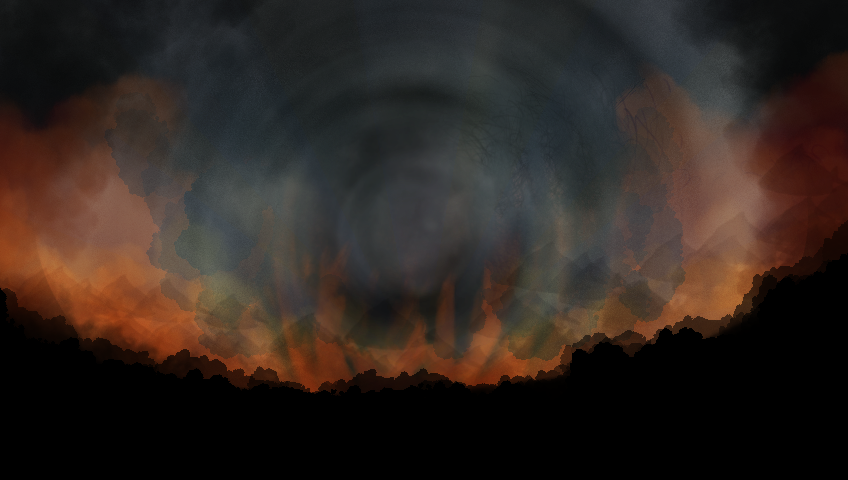
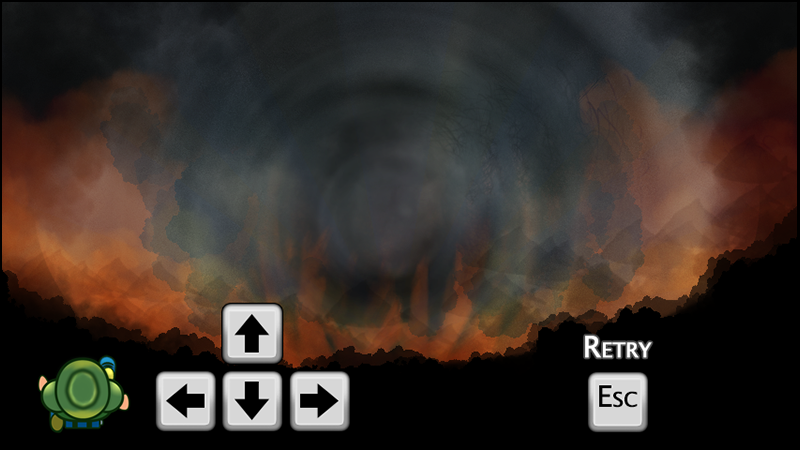
title screen refinement

diff --git a/LITDark/GameLoop.js b/LITDark/GameLoop.js
@@ -232,8 +232,8 @@ function GameLoop(){
 			// self.promptText2.on('mousedown', startLevel2);	
 			// self.promptText3.on('mousedown', startLevel3);	
 
-			self.promptText.position.set(AH_GLOBALS.SCREEN_W/2, AH_GLOBALS.SCREEN_H/2 - 50);
-			self.promptText1.position.set(AH_GLOBALS.SCREEN_W/2, AH_GLOBALS.SCREEN_H/2 + 50);
+			self.promptText.position.set(AH_GLOBALS.SCREEN_W/2, AH_GLOBALS.SCREEN_H/2 - 160);
+			self.promptText1.position.set(AH_GLOBALS.SCREEN_W/2, AH_GLOBALS.SCREEN_H/2 - 20);
 			// self.promptText2.position.set(AH_GLOBALS.SCREEN_W/2, AH_GLOBALS.SCREEN_H/2 + 40);
 			// self.promptText3.position.set(AH_GLOBALS.SCREEN_W/2, AH_GLOBALS.SCREEN_H/2 + 80);
 			
